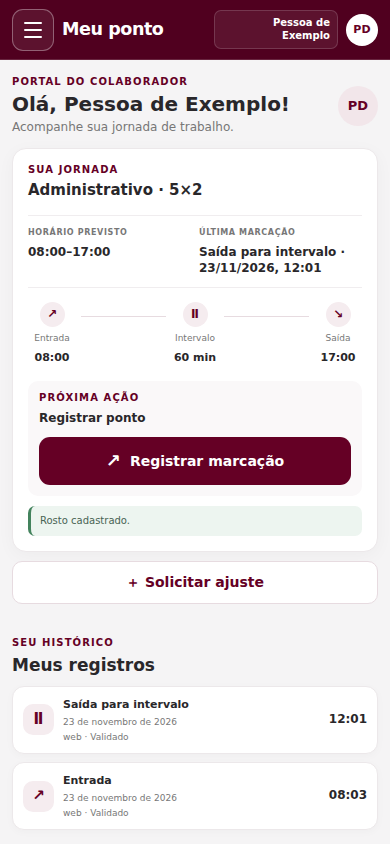
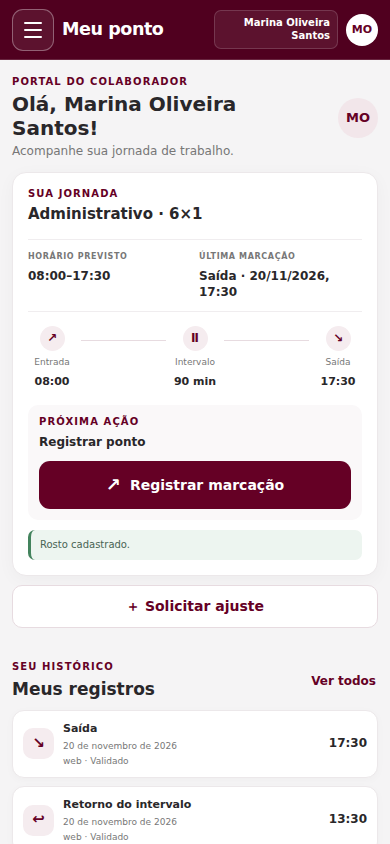
fix(certus): refine landing mockups and device proportions
Publish reviewed landing page updates with correct screen proportions and fictitious examples.

diff --git a/index.html b/index.html
@@ -9,15 +9,15 @@
 <meta property="og:type" content="website">
 <meta property="og:title" content="Certus by VagasIO — Gestão de jornada e ponto">
 <meta property="og:description" content="Conheça o Certus: gestão da jornada para equipes e colaboradores.">
-<meta property="og:image" content="https://certusbyvagasio.com.br/assets/gestao-desktop.png">
+<meta property="og:image" content="https://certusbyvagasio.com.br/assets/registros-desktop.png">
 <meta name="twitter:card" content="summary_large_image">
-<meta name="twitter:image" content="https://certusbyvagasio.com.br/assets/gestao-desktop.png">
+<meta name="twitter:image" content="https://certusbyvagasio.com.br/assets/registros-desktop.png">
 <link rel="icon" type="image/png" sizes="192x192" href="assets/certus-icon.png">
 <title>Certus by VagasIO — Gestão de jornada e ponto</title>
 <style>
-:root{--wine:#7b0636;--wine2:#a80d4c;--pink:#ea175b;--ink:#25000e;--muted:#c8aeb8;--paper:#f6f5f6;--text:#191316;--line:#eadfe4;--white:#fff;--max:1260px;--radius:22px;--shadow:0 24px 70px #16000b66}*{box-sizing:border-box}html{scroll-behavior:smooth}body{margin:0;font-family:Inter,ui-sans-serif,system-ui,-apple-system,BlinkMacSystemFont,"Segoe UI",sans-serif;color:var(--text);background:#fff}a{color:inherit;text-decoration:none}button,a{-webkit-tap-highlight-color:transparent}.wrap{width:min(var(--max),calc(100% - 64px));margin:auto}.dark-shell{color:#fff;background:radial-gradient(ellipse at 88% 12%,#860b3d 0,#43001b 25%,#21000d 66%),#26000e;position:relative;overflow:hidden}.dark-shell:before,.dark-shell:after{content:"";position:absolute;pointer-events:none;border:1px solid #ef477244;border-radius:50%;transform:rotate(-28deg)}.dark-shell:before{width:580px;height:1080px;right:-280px;top:-210px;border-width:110px}.dark-shell:after{width:420px;height:800px;right:-205px;top:-130px;border-color:#ff3d7933;border-width:3px}.site-header{height:78px;display:flex;align-items:center;justify-content:space-between;gap:28px;position:relative;z-index:3;border-bottom:1px solid #ffffff16}.brand{display:flex;align-items:center;flex:0 0 auto}.brand img{display:block;width:155px;height:auto}.main-nav{display:flex;align-items:center;gap:clamp(18px,2.5vw,36px);font-size:13px;color:#f6eaf0}.main-nav a{opacity:.9;transition:opacity .2s}.main-nav a:hover{opacity:1;color:#ff6b99}.header-actions{display:flex;align-items:center;gap:10px}.btn{min-height:42px;padding:0 17px;border:1px solid transparent;border-radius:999px;display:inline-flex;align-items:center;justify-content:center;gap:9px;font-size:13px;font-weight:750;white-space:nowrap;transition:transform .2s,box-shadow .2s,background .2s}.btn:hover{transform:translateY(-2px)}.btn-outline{border-color:#ffffff55;color:white;background:#ffffff05}.btn-primary{color:#fff;background:linear-gradient(105deg,#ee1a5d,#bb064c);box-shadow:0 9px 26px #d70b514d}.btn-primary:hover{box-shadow:0 12px 30px #eb125f88}.btn-light{background:#fff;color:#77072f}.hero{position:relative;z-index:1;min-height:520px;padding:48px 0 22px;display:grid;grid-template-columns:minmax(350px,.78fr) minmax(0,1.22fr);align-items:center;gap:28px}.hero-copy{position:relative;z-index:2;max-width:490px}.eyebrow{display:inline-flex;align-items:center;gap:8px;font-size:11px;letter-spacing:.13em;text-transform:uppercase;color:#ff80a7;font-weight:800}.eyebrow .pill{letter-spacing:.03em;text-transform:none;color:#fff;border:1px solid #ffffff35;border-radius:999px;padding:8px 12px;font-size:11px}.hero h1{font-size:clamp(38px,4.2vw,61px);letter-spacing:-.045em;line-height:1.02;margin:20px 0 15px;max-width:570px}.hero h1 em{font-style:normal;color:#ff2d6b}.hero-copy>p{font-size:16px;line-height:1.58;color:#e2ccd5;max-width:475px;margin:0 0 22px}.hero-actions{display:flex;gap:11px;flex-wrap:wrap}.hero-checks{margin-top:22px;display:flex;gap:15px;flex-wrap:wrap;color:#ead5de;font-size:11px}.hero-checks span{display:flex;align-items:center;gap:6px}.demo-caption{font-size:10px;color:#cdb4be;margin:12px 0 0;line-height:1.4}.tick{width:16px;height:16px;border-radius:50%;display:inline-grid;place-items:center;background:#c80e50;color:#fff;font-size:10px}.hero-visual{min-width:0;position:relative;min-height:405px;display:flex;align-items:center;justify-content:center;padding:10px 5px 32px}.visual-glow{position:absolute;width:76%;height:70%;background:#ed0f5b42;filter:blur(70px);border-radius:50%}.device-stage{position:relative;width:100%;max-width:730px;display:flex;align-items:center;justify-content:center;perspective:1200px}.desktop-frame{width:82%;position:relative;z-index:1;transform:rotateY(-5deg) rotateX(2deg);border:7px solid #343037;border-bottom-width:12px;border-radius:13px;background:#111;box-shadow:0 24px 55px #05000599,0 0 0 1px #ffffff55;overflow:hidden}.desktop-frame img{display:block;width:100%;height:auto;object-fit:contain;object-position:top;background:#f4f2f4}.desktop-stand{height:42px;width:24%;position:relative;margin-top:-1px;background:linear-gradient(90deg,#45424a,#b9b6bd,#504c55);clip-path:polygon(20% 0,80% 0,100% 100%,0 100%);filter:drop-shadow(0 8px 6px #0008)}.desktop-foot{height:12px;width:34%;margin:-1px auto 0;border-radius:0 0 9px 9px;background:linear-gradient(#d5d2d9,#67636c)}.phone-frame{position:absolute;z-index:2;width:17%;right:13%;bottom:14px;padding:6px;border:2px solid #78747e;border-radius:24px;background:#17151b;box-shadow:0 22px 48px #0009}.phone-frame img{display:block;width:100%;height:auto;object-fit:contain;object-position:top;border-radius:18px}.terminal-frame{width:18%;right:0%;bottom:52px;z-index:2}.image-caption{position:absolute;z-index:2;bottom:0;left:6%;font-size:10px;line-height:1.4;color:#fff9;text-shadow:0 1px 4px #000}.screen-slot{display:grid;place-items:center;text-align:center;color:#b9a6ae;background:linear-gradient(135deg,#25151c,#341623);font-size:13px;line-height:1.5;padding:24px}.desktop-frame .screen-slot{aspect-ratio:1.56}.phone-frame .screen-slot{aspect-ratio:9/19.5;border-radius:18px;padding:12px 7px;font-size:10px}.hero-strip{position:relative;z-index:2;margin:12px auto 32px;display:grid;grid-template-columns:repeat(5,1fr);border:1px solid #ffffff26;border-radius:19px;background:linear-gradient(100deg,#ffffff0c,#ffffff05);backdrop-filter:blur(10px);overflow:hidden}.strip-item{min-height:78px;display:flex;align-items:center;justify-content:center;gap:12px;padding:14px 12px;border-right:1px solid #ffffff22;text-align:left}.strip-item:last-child{border:0}.strip-icon{width:34px;height:34px;flex:none;color:#ff7aa2}.strip-item b{display:block;font-size:12px;line-height:1.25}.strip-item small{display:block;color:#d8c0ca;font-size:10px;margin-top:3px}.why{position:relative;z-index:2;padding:10px 0 48px;display:grid;grid-template-columns:1fr 1fr;gap:54px;align-items:center}.video-card{min-height:270px;border:1px solid #ffffff35;border-radius:22px;background:linear-gradient(135deg,#4b1d30,#170711);overflow:hidden;position:relative;box-shadow:var(--shadow)}.video-card img{width:100%;height:100%;min-height:270px;object-fit:cover;display:block}.capture-label{position:absolute;left:0;right:0;bottom:0;padding:48px 20px 17px;color:#fff;font-size:14px;font-weight:800;background:linear-gradient(transparent,#160711e8)}.capture-label small{display:block;color:#f5dce5;font-size:10px;font-weight:500;margin-top:5px}.video-placeholder{position:absolute;inset:0;display:grid;place-content:center;text-align:center;background:linear-gradient(135deg,#45182b,#1e0b14);color:#fff}.play{width:58px;height:58px;border-radius:50%;border:1px solid #ffffff99;background:#ffffff22;margin:0 auto 13px;display:grid;place-items:center;font-size:21px}.video-placeholder b{font-size:18px}.video-placeholder small{margin-top:6px;color:#d7bfc9}.why-copy .eyebrow{color:#f46991}.why-copy h2{font-size:clamp(25px,3vw,37px);line-height:1.12;letter-spacing:-.03em;margin:12px 0}.why-copy h2 em{color:#ff3e78;font-style:normal}.why-copy p{font-size:14px;line-height:1.6;color:#dbc8d0}.check-list{padding:0;margin:18px 0 0;list-style:none;display:grid;gap:10px}.check-list li{display:flex;align-items:flex-start;gap:9px;color:#f3e5eb;font-size:13px;line-height:1.45}.check-list .tick{margin-top:1px;flex:none}.trust-strip{position:relative;z-index:2;margin:0 auto 28px;border:1px solid #ffffff28;border-radius:18px;display:grid;grid-template-columns:repeat(3,1fr);background:#ffffff0a}.trust-item{padding:17px 18px;display:flex;justify-content:center;align-items:center;gap:12px;border-right:1px solid #ffffff25;text-align:left}.trust-item:last-child{border:0}.trust-icon{width:30px;height:30px;color:#ff6793}.trust-item b{display:block;font-size:13px}.trust-item small{display:block;color:#d1b8c2;font-size:10px;margin-top:3px}.light-section{background:var(--paper);padding:64px 0}.section-grid{display:grid;grid-template-columns:.72fr 1.28fr;align-items:center;gap:55px}.section-copy .eyebrow{color:#92083d}.section-copy h2{font-size:clamp(30px,3.5vw,44px);line-height:1.07;letter-spacing:-.04em;margin:13px 0}.section-copy p{font-size:15px;line-height:1.6;color:#655d62;max-width:390px}.feature-grid{display:grid;grid-template-columns:repeat(3,1fr);gap:14px}.feature-card{min-height:145px;padding:21px 17px;background:white;border:1px solid #eee7eb;border-radius:17px;box-shadow:0 8px 24px #39112508}.feature-icon{width:36px;height:36px;display:grid;place-items:center;color:#94083f;background:#fff1f5;border-radius:12px;margin-bottom:14px}.feature-icon svg{width:21px;height:21px}.feature-card h3{font-size:14px;line-height:1.25;margin:0 0 6px}.feature-card p{font-size:11px;line-height:1.45;color:#777078;margin:0}.benefit-section{padding:72px 0;background:#fff}.section-heading{text-align:center;max-width:720px;margin:0 auto 34px}.section-heading .eyebrow{color:#a20947}.section-heading h2{font-size:clamp(29px,3.2vw,42px);letter-spacing:-.04em;margin:12px 0}.section-heading p{margin:0;color:#6d656a;line-height:1.6}.benefit-grid{display:grid;grid-template-columns:repeat(3,1fr);gap:16px}.benefit{border:1px solid #eee7eb;border-radius:17px;padding:24px;background:#fff}.benefit-num{font-size:11px;color:#ab0d4d;font-weight:800;letter-spacing:.12em}.benefit h3{font-size:16px;margin:12px 0 8px}.benefit p{font-size:13px;line-height:1.55;color:#6e656a;margin:0}.cta-section{color:#fff;padding:40px 0;background:radial-gradient(ellipse at 88% 30%,#9b0d47,#3a0019 64%,#24000f);position:relative;overflow:hidden}.cta-section:after{content:"";position:absolute;width:550px;height:550px;border:75px solid #ffffff0a;border-radius:50%;right:-260px;top:-200px}.cta-inner{position:relative;z-index:1;display:grid;grid-template-columns:1fr auto;align-items:center;gap:28px}.cta-copy .eyebrow{color:#ff9aba}.cta-copy h2{font-size:clamp(24px,3vw,36px);line-height:1.1;margin:10px 0}.cta-copy p{font-size:13px;color:#e2cbd4;line-height:1.55;max-width:560px;margin:0}.cta-perks{display:flex;gap:20px;margin-top:17px;color:#f2dfe7;font-size:11px}.cta-perks span{display:flex;gap:7px;align-items:center}.cta-actions{display:flex;gap:10px;flex-wrap:wrap;justify-content:flex-end}.faq-section{padding:65px 0;background:#faf9fa}.faq-grid{max-width:880px;margin:auto;display:grid;grid-template-columns:1fr 1fr;gap:10px}.faq-grid details{background:#fff;border:1px solid #eee7eb;border-radius:13px;padding:15px 17px}.faq-grid summary{cursor:pointer;font-size:13px;font-weight:750}.faq-grid details p{font-size:12px;line-height:1.55;color:#6c6469;margin:10px 0 0}.site-footer{background:#20000d;color:#d8c2cb;padding:28px 0}.footer-inner{display:flex;align-items:center;justify-content:space-between;gap:18px;font-size:11px}.footer-inner img{width:132px;height:auto}.footer-links{display:flex;gap:15px;flex-wrap:wrap}.footer-inner small{color:#bd9eaa}.sr-only{position:absolute;width:1px;height:1px;padding:0;margin:-1px;overflow:hidden;clip:rect(0,0,0,0);white-space:nowrap;border:0}
+:root{--wine:#7b0636;--wine2:#a80d4c;--pink:#ea175b;--ink:#25000e;--muted:#c8aeb8;--paper:#f6f5f6;--text:#191316;--line:#eadfe4;--white:#fff;--max:1260px;--radius:22px;--shadow:0 24px 70px #16000b66}*{box-sizing:border-box}html{scroll-behavior:smooth}body{margin:0;font-family:Inter,ui-sans-serif,system-ui,-apple-system,BlinkMacSystemFont,"Segoe UI",sans-serif;color:var(--text);background:#fff}a{color:inherit;text-decoration:none}button,a{-webkit-tap-highlight-color:transparent}.wrap{width:min(var(--max),calc(100% - 64px));margin:auto}.dark-shell{color:#fff;background:radial-gradient(ellipse at 88% 12%,#860b3d 0,#43001b 25%,#21000d 66%),#26000e;position:relative;overflow:hidden}.dark-shell:before,.dark-shell:after{content:"";position:absolute;pointer-events:none;border:1px solid #ef477244;border-radius:50%;transform:rotate(-28deg)}.dark-shell:before{width:580px;height:1080px;right:-280px;top:-210px;border-width:110px}.dark-shell:after{width:420px;height:800px;right:-205px;top:-130px;border-color:#ff3d7933;border-width:3px}.site-header{height:78px;display:flex;align-items:center;justify-content:space-between;gap:28px;position:relative;z-index:3;border-bottom:1px solid #ffffff16}.brand{display:flex;align-items:center;flex:0 0 auto}.brand img{display:block;width:155px;height:auto}.main-nav{display:flex;align-items:center;gap:clamp(18px,2.5vw,36px);font-size:13px;color:#f6eaf0}.main-nav a{opacity:.9;transition:opacity .2s}.main-nav a:hover{opacity:1;color:#ff6b99}.header-actions{display:flex;align-items:center;gap:10px}.btn{min-height:42px;padding:0 17px;border:1px solid transparent;border-radius:999px;display:inline-flex;align-items:center;justify-content:center;gap:9px;font-size:13px;font-weight:750;white-space:nowrap;transition:transform .2s,box-shadow .2s,background .2s}.btn:hover{transform:translateY(-2px)}.btn-outline{border-color:#ffffff55;color:white;background:#ffffff05}.btn-primary{color:#fff;background:linear-gradient(105deg,#ee1a5d,#bb064c);box-shadow:0 9px 26px #d70b514d}.btn-primary:hover{box-shadow:0 12px 30px #eb125f88}.btn-light{background:#fff;color:#77072f}.hero{position:relative;z-index:1;min-height:520px;padding:48px 0 22px;display:grid;grid-template-columns:minmax(350px,.78fr) minmax(0,1.22fr);align-items:center;gap:28px}.hero-copy{position:relative;z-index:2;max-width:490px}.eyebrow{display:inline-flex;align-items:center;gap:8px;font-size:11px;letter-spacing:.13em;text-transform:uppercase;color:#ff80a7;font-weight:800}.eyebrow .pill{letter-spacing:.03em;text-transform:none;color:#fff;border:1px solid #ffffff35;border-radius:999px;padding:8px 12px;font-size:11px}.hero h1{font-size:clamp(38px,4.2vw,61px);letter-spacing:-.045em;line-height:1.02;margin:20px 0 15px;max-width:570px}.hero h1 em{font-style:normal;color:#ff2d6b}.hero-copy>p{font-size:16px;line-height:1.58;color:#e2ccd5;max-width:475px;margin:0 0 22px}.hero-actions{display:flex;gap:11px;flex-wrap:wrap}.hero-checks{margin-top:22px;display:flex;gap:15px;flex-wrap:wrap;color:#ead5de;font-size:11px}.hero-checks span{display:flex;align-items:center;gap:6px}.demo-caption{font-size:10px;color:#cdb4be;margin:12px 0 0;line-height:1.4}.tick{width:16px;height:16px;border-radius:50%;display:inline-grid;place-items:center;background:#c80e50;color:#fff;font-size:10px}.hero-visual{min-width:0;position:relative;min-height:405px;display:flex;align-items:center;justify-content:center;padding:10px 5px 32px}.visual-glow{position:absolute;width:76%;height:70%;background:#ed0f5b42;filter:blur(70px);border-radius:50%}.device-stage{position:relative;width:100%;max-width:730px;display:flex;align-items:center;justify-content:center;perspective:1200px}.desktop-frame{width:76%;position:relative;z-index:1;transform:none;border:6px solid #343037;border-bottom-width:11px;border-radius:12px;background:#111;box-shadow:0 24px 55px #05000599,0 0 0 1px #ffffff55;overflow:hidden}.desktop-frame img{display:block;width:100%;height:auto;object-fit:contain;object-position:top;background:#f4f2f4}.desktop-stand{height:42px;width:24%;position:relative;margin-top:-1px;background:linear-gradient(90deg,#45424a,#b9b6bd,#504c55);clip-path:polygon(20% 0,80% 0,100% 100%,0 100%);filter:drop-shadow(0 8px 6px #0008)}.desktop-foot{height:12px;width:34%;margin:-1px auto 0;border-radius:0 0 9px 9px;background:linear-gradient(#d5d2d9,#67636c)}.device-bezel{position:absolute;overflow:hidden;background:#17151b;box-shadow:0 22px 48px #0009}.phone-frame{z-index:3;width:15%;right:0;bottom:19px;padding:5px;border:2px solid #85818a;border-radius:23px}.phone-frame img{display:block;width:100%;height:auto;object-fit:contain;object-position:top;border-radius:17px}.tablet-frame{z-index:2;width:25%;right:15%;bottom:14px;padding:7px;border:2px solid #8f8c94;border-radius:18px}.tablet-frame img{display:block;width:100%;height:auto;aspect-ratio:4/3;object-fit:contain;object-position:top;border-radius:10px;background:#f4f2f4}.image-caption{position:absolute;z-index:2;bottom:0;left:6%;font-size:10px;line-height:1.4;color:#fff9;text-shadow:0 1px 4px #000}.screen-slot{display:grid;place-items:center;text-align:center;color:#b9a6ae;background:linear-gradient(135deg,#25151c,#341623);font-size:13px;line-height:1.5;padding:24px}.desktop-frame .screen-slot{aspect-ratio:1.56}.phone-frame .screen-slot{aspect-ratio:9/19.5;border-radius:18px;padding:12px 7px;font-size:10px}.hero-strip{position:relative;z-index:2;margin:12px auto 32px;display:grid;grid-template-columns:repeat(5,1fr);border:1px solid #ffffff26;border-radius:19px;background:linear-gradient(100deg,#ffffff0c,#ffffff05);backdrop-filter:blur(10px);overflow:hidden}.strip-item{min-height:78px;display:flex;align-items:center;justify-content:center;gap:12px;padding:14px 12px;border-right:1px solid #ffffff22;text-align:left}.strip-item:last-child{border:0}.strip-icon{width:34px;height:34px;flex:none;color:#ff7aa2}.strip-item b{display:block;font-size:12px;line-height:1.25}.strip-item small{display:block;color:#d8c0ca;font-size:10px;margin-top:3px}.why{position:relative;z-index:2;padding:10px 0 48px;display:grid;grid-template-columns:1fr 1fr;gap:54px;align-items:center}.video-card{aspect-ratio:1.5;min-height:0;border:1px solid #ffffff35;border-radius:22px;background:#f4f2f4;overflow:hidden;position:relative;box-shadow:var(--shadow)}.video-card img{width:100%;height:100%;min-height:0;object-fit:contain;display:block}.capture-label{position:absolute;left:0;right:0;bottom:0;padding:48px 20px 17px;color:#fff;font-size:14px;font-weight:800;background:linear-gradient(transparent,#160711e8)}.capture-label small{display:block;color:#f5dce5;font-size:10px;font-weight:500;margin-top:5px}.video-placeholder{position:absolute;inset:0;display:grid;place-content:center;text-align:center;background:linear-gradient(135deg,#45182b,#1e0b14);color:#fff}.play{width:58px;height:58px;border-radius:50%;border:1px solid #ffffff99;background:#ffffff22;margin:0 auto 13px;display:grid;place-items:center;font-size:21px}.video-placeholder b{font-size:18px}.video-placeholder small{margin-top:6px;color:#d7bfc9}.why-copy .eyebrow{color:#f46991}.why-copy h2{font-size:clamp(25px,3vw,37px);line-height:1.12;letter-spacing:-.03em;margin:12px 0}.why-copy h2 em{color:#ff3e78;font-style:normal}.why-copy p{font-size:14px;line-height:1.6;color:#dbc8d0}.check-list{padding:0;margin:18px 0 0;list-style:none;display:grid;gap:10px}.check-list li{display:flex;align-items:flex-start;gap:9px;color:#f3e5eb;font-size:13px;line-height:1.45}.check-list .tick{margin-top:1px;flex:none}.trust-strip{position:relative;z-index:2;margin:0 auto 28px;border:1px solid #ffffff28;border-radius:18px;display:grid;grid-template-columns:repeat(3,1fr);background:#ffffff0a}.trust-item{padding:17px 18px;display:flex;justify-content:center;align-items:center;gap:12px;border-right:1px solid #ffffff25;text-align:left}.trust-item:last-child{border:0}.trust-icon{width:30px;height:30px;color:#ff6793}.trust-item b{display:block;font-size:13px}.trust-item small{display:block;color:#d1b8c2;font-size:10px;margin-top:3px}.light-section{background:var(--paper);padding:64px 0}.section-grid{display:grid;grid-template-columns:.72fr 1.28fr;align-items:center;gap:55px}.section-copy .eyebrow{color:#92083d}.section-copy h2{font-size:clamp(30px,3.5vw,44px);line-height:1.07;letter-spacing:-.04em;margin:13px 0}.section-copy p{font-size:15px;line-height:1.6;color:#655d62;max-width:390px}.feature-grid{display:grid;grid-template-columns:repeat(3,1fr);gap:14px}.feature-card{min-height:145px;padding:21px 17px;background:white;border:1px solid #eee7eb;border-radius:17px;box-shadow:0 8px 24px #39112508}.feature-icon{width:36px;height:36px;display:grid;place-items:center;color:#94083f;background:#fff1f5;border-radius:12px;margin-bottom:14px}.feature-icon svg{width:21px;height:21px}.feature-card h3{font-size:14px;line-height:1.25;margin:0 0 6px}.feature-card p{font-size:11px;line-height:1.45;color:#777078;margin:0}.benefit-section{padding:72px 0;background:#fff}.section-heading{text-align:center;max-width:720px;margin:0 auto 34px}.section-heading .eyebrow{color:#a20947}.section-heading h2{font-size:clamp(29px,3.2vw,42px);letter-spacing:-.04em;margin:12px 0}.section-heading p{margin:0;color:#6d656a;line-height:1.6}.benefit-grid{display:grid;grid-template-columns:repeat(3,1fr);gap:16px}.benefit{border:1px solid #eee7eb;border-radius:17px;padding:24px;background:#fff}.benefit-num{font-size:11px;color:#ab0d4d;font-weight:800;letter-spacing:.12em}.benefit h3{font-size:16px;margin:12px 0 8px}.benefit p{font-size:13px;line-height:1.55;color:#6e656a;margin:0}.cta-section{color:#fff;padding:40px 0;background:radial-gradient(ellipse at 88% 30%,#9b0d47,#3a0019 64%,#24000f);position:relative;overflow:hidden}.cta-section:after{content:"";position:absolute;width:550px;height:550px;border:75px solid #ffffff0a;border-radius:50%;right:-260px;top:-200px}.cta-inner{position:relative;z-index:1;display:grid;grid-template-columns:1fr auto;align-items:center;gap:28px}.cta-copy .eyebrow{color:#ff9aba}.cta-copy h2{font-size:clamp(24px,3vw,36px);line-height:1.1;margin:10px 0}.cta-copy p{font-size:13px;color:#e2cbd4;line-height:1.55;max-width:560px;margin:0}.cta-perks{display:flex;gap:20px;margin-top:17px;color:#f2dfe7;font-size:11px}.cta-perks span{display:flex;gap:7px;align-items:center}.cta-actions{display:flex;gap:10px;flex-wrap:wrap;justify-content:flex-end}.faq-section{padding:65px 0;background:#faf9fa}.faq-grid{max-width:880px;margin:auto;display:grid;grid-template-columns:1fr 1fr;gap:10px}.faq-grid details{background:#fff;border:1px solid #eee7eb;border-radius:13px;padding:15px 17px}.faq-grid summary{cursor:pointer;font-size:13px;font-weight:750}.faq-grid details p{font-size:12px;line-height:1.55;color:#6c6469;margin:10px 0 0}.site-footer{background:#20000d;color:#d8c2cb;padding:28px 0}.footer-inner{display:flex;align-items:center;justify-content:space-between;gap:18px;font-size:11px}.footer-inner img{width:132px;height:auto}.footer-links{display:flex;gap:15px;flex-wrap:wrap}.footer-inner small{color:#bd9eaa}.sr-only{position:absolute;width:1px;height:1px;padding:0;margin:-1px;overflow:hidden;clip:rect(0,0,0,0);white-space:nowrap;border:0}
 @media(max-width:1000px){.main-nav{gap:14px}.main-nav a:nth-child(2),.main-nav a:nth-child(4){display:none}.hero{grid-template-columns:.88fr 1.12fr}.hero-visual{min-height:340px}.strip-item{gap:8px;padding:12px 8px}.strip-item b{font-size:11px}.section-grid{gap:32px}.feature-card{padding:17px 13px}}
-@media(max-width:760px){.wrap{width:min(100% - 34px,var(--max))}.site-header{height:64px;gap:10px}.brand img{width:130px}.main-nav{display:none}.header-actions{gap:6px}.header-actions .btn{min-height:38px;padding:0 12px;font-size:11px}.header-actions .btn-outline{display:none}.hero{padding:37px 0 5px;grid-template-columns:1fr;gap:8px;min-height:auto}.hero-copy{max-width:560px}.hero h1{font-size:clamp(37px,10vw,52px);margin:16px 0 12px}.hero-copy>p{font-size:14px}.hero-visual{min-height:260px;padding:0 0 20px;margin-top:2px}.device-stage{max-width:520px}.desktop-frame{width:84%;border-width:4px;border-bottom-width:8px;border-radius:8px}.desktop-stand{height:26px}.desktop-foot{height:8px}.phone-frame{width:19%;right:18%;bottom:8px;padding:4px;border-radius:15px}.phone-frame img{border-radius:12px}.terminal-frame{width:20%;right:0;bottom:34px}.image-caption{font-size:9px;left:1%;bottom:-2px}.hero-strip{grid-template-columns:repeat(2,1fr);margin:18px auto 24px;border-radius:15px}.strip-item{min-height:63px;justify-content:flex-start;padding:11px 12px;border-bottom:1px solid #ffffff20}.strip-item:nth-child(2n){border-right:0}.strip-item:last-child{grid-column:1/-1;border-bottom:0;justify-content:center}.strip-icon{width:28px;height:28px}.strip-item b{font-size:11px}.strip-item small{font-size:9px}.why{padding:0 0 26px;grid-template-columns:1fr;gap:19px}.video-card,.video-card img{min-height:205px}.why-copy h2{font-size:29px}.why-copy p{font-size:13px}.check-list{gap:8px}.check-list li{font-size:12px}.trust-strip{margin-bottom:24px;grid-template-columns:1fr}.trust-item{justify-content:flex-start;padding:13px 18px;border-right:0;border-bottom:1px solid #ffffff22}.trust-item:last-child{border-bottom:0}.light-section{padding:44px 0}.section-grid{grid-template-columns:1fr;gap:21px}.section-copy h2{font-size:34px}.section-copy p{font-size:13px}.feature-grid{grid-template-columns:repeat(2,1fr);gap:9px}.feature-card{min-height:132px;padding:15px 12px;border-radius:14px}.feature-card h3{font-size:12px}.feature-card p{font-size:10px}.benefit-section{padding:48px 0}.section-heading{margin-bottom:22px;text-align:left}.section-heading h2{font-size:32px}.benefit-grid{grid-template-columns:1fr;gap:9px}.benefit{padding:17px}.benefit h3{margin:8px 0 5px}.cta-section{padding:31px 0}.cta-inner{grid-template-columns:1fr;gap:18px}.cta-actions{justify-content:flex-start}.cta-perks{gap:10px 15px;flex-wrap:wrap;font-size:10px}.faq-section{padding:48px 0}.faq-grid{grid-template-columns:1fr}.footer-inner{align-items:flex-start;flex-direction:column}.footer-links{gap:10px 16px}}
+@media(max-width:760px){.wrap{width:min(100% - 34px,var(--max))}.site-header{height:64px;gap:10px}.brand img{width:130px}.main-nav{display:none}.header-actions{gap:6px}.header-actions .btn{min-height:38px;padding:0 12px;font-size:11px}.header-actions .btn-outline{display:none}.hero{padding:37px 0 5px;grid-template-columns:1fr;gap:8px;min-height:auto}.hero-copy{max-width:560px}.hero h1{font-size:clamp(37px,10vw,52px);margin:16px 0 12px}.hero-copy>p{font-size:14px}.hero-visual{min-height:260px;padding:0 0 20px;margin-top:2px}.device-stage{max-width:520px}.desktop-frame{width:76%;border-width:4px;border-bottom-width:8px;border-radius:8px}.desktop-stand{height:26px}.desktop-foot{height:8px}.phone-frame{width:16%;right:0;bottom:8px;padding:4px;border-radius:15px}.phone-frame img{border-radius:11px}.tablet-frame{width:25%;right:15%;bottom:8px;padding:5px;border-radius:13px}.tablet-frame img{border-radius:8px}.image-caption{display:none}.hero-strip{grid-template-columns:repeat(2,1fr);margin:18px auto 24px;border-radius:15px}.strip-item{min-height:63px;justify-content:flex-start;padding:11px 12px;border-bottom:1px solid #ffffff20}.strip-item:nth-child(2n){border-right:0}.strip-item:last-child{grid-column:1/-1;border-bottom:0;justify-content:center}.strip-icon{width:28px;height:28px}.strip-item b{font-size:11px}.strip-item small{font-size:9px}.why{padding:0 0 26px;grid-template-columns:1fr;gap:19px}.video-card,.video-card img{min-height:205px}.why-copy h2{font-size:29px}.why-copy p{font-size:13px}.check-list{gap:8px}.check-list li{font-size:12px}.trust-strip{margin-bottom:24px;grid-template-columns:1fr}.trust-item{justify-content:flex-start;padding:13px 18px;border-right:0;border-bottom:1px solid #ffffff22}.trust-item:last-child{border-bottom:0}.light-section{padding:44px 0}.section-grid{grid-template-columns:1fr;gap:21px}.section-copy h2{font-size:34px}.section-copy p{font-size:13px}.feature-grid{grid-template-columns:repeat(2,1fr);gap:9px}.feature-card{min-height:132px;padding:15px 12px;border-radius:14px}.feature-card h3{font-size:12px}.feature-card p{font-size:10px}.benefit-section{padding:48px 0}.section-heading{margin-bottom:22px;text-align:left}.section-heading h2{font-size:32px}.benefit-grid{grid-template-columns:1fr;gap:9px}.benefit{padding:17px}.benefit h3{margin:8px 0 5px}.cta-section{padding:31px 0}.cta-inner{grid-template-columns:1fr;gap:18px}.cta-actions{justify-content:flex-start}.cta-perks{gap:10px 15px;flex-wrap:wrap;font-size:10px}.faq-section{padding:48px 0}.faq-grid{grid-template-columns:1fr}.footer-inner{align-items:flex-start;flex-direction:column}.footer-links{gap:10px 16px}}
 @media(prefers-reduced-motion:reduce){html{scroll-behavior:auto}*,*:before,*:after{transition:none!important}}
 </style>
 </head>
@@ -32,7 +32,7 @@
 <section class="hero wrap" aria-labelledby="hero-title">
   <div class="hero-copy"><span class="eyebrow"><span class="pill">◷ &nbsp;Gestão de jornada</span></span><h1 id="hero-title">Controle de jornada com tecnologia, segurança e <em>clareza.</em></h1><p>Registre, acompanhe e gerencie o ponto da sua equipe com uma experiência simples para gestores e colaboradores, no computador ou no celular.</p><div class="hero-actions"><a class="btn btn-primary" href="#contato">Conheça o Certus <span aria-hidden="true">→</span></a><a class="btn btn-outline" href="#demonstracao">⌕ &nbsp;Ver demonstração</a></div><div class="hero-checks"><span><i class="tick">✓</i> Gestão centralizada</span><span><i class="tick">✓</i> Acesso pelo celular</span><span><i class="tick">✓</i> Relatórios da jornada</span></div><p class="demo-caption">Capturas das telas reais do Certus, geradas com dados demonstrativos fictícios.</p></div>
   <div class="hero-visual" aria-label="Capturas de tela do Certus">
-    <div class="visual-glow"></div><div class="device-stage"><div><div class="desktop-frame"><img src="assets/gestao-desktop.png" alt="Captura de tela do painel de gestão real do Certus, renderizado com dados demonstrativos fictícios"></div><div class="desktop-stand"></div><div class="desktop-foot"></div></div><div class="phone-frame"><img src="assets/colaborador-mobile.png" alt="Captura real do portal do colaborador no celular, com dados demonstrativos fictícios"></div><div class="phone-frame terminal-frame"><img src="assets/terminal-mobile.png" alt="Captura real do terminal compartilhado Certus, com cadastro demonstrativo fictício"></div></div>
+    <div class="visual-glow"></div><div class="device-stage"><div><div class="desktop-frame"><img src="assets/registros-desktop.png" alt="Captura do espelho mensal individual de Registros de ponto no Certus, com colaboradora e marcações fictícias"></div><div class="desktop-stand"></div><div class="desktop-foot"></div></div><div class="phone-frame device-bezel"><img src="assets/colaborador-mobile.png" alt="Captura do portal do colaborador em celular, tela real do Certus com nome e dados fictícios"></div><div class="tablet-frame device-bezel"><img src="assets/terminal-tablet.png" alt="Captura do terminal compartilhado Certus em tablet, tela real com empresa e configurações fictícias"></div></div>
   </div>
 </section>
 <div class="hero-strip wrap" aria-label="Recursos em destaque">
@@ -42,7 +42,7 @@
   <div class="strip-item"><svg class="strip-icon" viewBox="0 0 32 32" fill="none" stroke="currentColor" stroke-width="1.7"><path d="M5 27h23M8 24V15m7 9V8m7 16v-6m7 6V4"/><path d="m6 12 8-6 7 5 8-7"/></svg><span><b>Relatórios</b><small>Visão da rotina</small></span></div>
   <div class="strip-item"><svg class="strip-icon" viewBox="0 0 32 32" fill="none" stroke="currentColor" stroke-width="1.7"><path d="m16 3 12 5v8c0 6-5 10-12 13C9 26 4 22 4 16V8l12-5Z"/><path d="m10 16 4 4 8-9"/></svg><span><b>Trilha de gestão</b><small>Registro e conferência</small></span></div>
 </div>
-<section class="why wrap" id="demonstracao"><div class="video-card"><img src="assets/registros-desktop.png" alt="Captura real da tela de registros de ponto do Certus com dados inteiramente fictícios"><div class="capture-label">Registros de ponto no Certus<small>Tela real do sistema · captura com dados demonstrativos fictícios</small></div></div><div class="why-copy"><span class="eyebrow">POR QUE CONHECER O CERTUS?</span><h2>Mais que marcar ponto:<br><em>uma gestão conectada à equipe.</em></h2><p>Acompanhe registros, cadastros e jornadas pelo portal de gestão, enquanto cada colaborador consulta sua própria rotina.</p><ul class="check-list"><li><i class="tick">✓</i> Consulte registros e jornadas por colaborador e filial.</li><li><i class="tick">✓</i> Acompanhe solicitações de ajuste e mantenha o histórico.</li><li><i class="tick">✓</i> Organize escalas, equipes e terminais em um só sistema.</li><li><i class="tick">✓</i> Consulte relatórios e informações da jornada.</li></ul></div></section>
+<section class="why wrap" id="demonstracao"><div class="video-card"><img src="assets/gestao-desktop.png" alt="Captura do painel de gestão real do Certus com empresa e indicadores fictícios"><div class="capture-label">Painel de gestão do Certus<small>Tela real do sistema · captura com dados demonstrativos fictícios</small></div></div><div class="why-copy"><span class="eyebrow">POR QUE CONHECER O CERTUS?</span><h2>Mais que marcar ponto:<br><em>uma gestão conectada à equipe.</em></h2><p>Acompanhe registros, cadastros e jornadas pelo portal de gestão, enquanto cada colaborador consulta sua própria rotina.</p><ul class="check-list"><li><i class="tick">✓</i> Consulte registros e jornadas por colaborador e filial.</li><li><i class="tick">✓</i> Acompanhe solicitações de ajuste e mantenha o histórico.</li><li><i class="tick">✓</i> Organize escalas, equipes e terminais em um só sistema.</li><li><i class="tick">✓</i> Consulte relatórios e informações da jornada.</li></ul></div></section>
 <div class="trust-strip wrap"><div class="trust-item"><svg class="trust-icon" viewBox="0 0 32 32" fill="none" stroke="currentColor" stroke-width="1.8"><circle cx="16" cy="10" r="5"/><path d="M6 28c0-7 4-11 10-11s10 4 10 11M4 11V5h6m18 6V5h-6"/></svg><span><b>Equipes organizadas</b><small>Cadastros e acessos</small></span></div><div class="trust-item"><svg class="trust-icon" viewBox="0 0 32 32" fill="none" stroke="currentColor" stroke-width="1.8"><circle cx="16" cy="16" r="12"/><path d="M16 8v8l6 4"/></svg><span><b>Rotina acompanhável</b><small>Registros e solicitações</small></span></div><div class="trust-item"><svg class="trust-icon" viewBox="0 0 32 32" fill="none" stroke="currentColor" stroke-width="1.8"><path d="M5 27V14m7 13V6m7 21V17m7 10V3"/><path d="M3 29h26"/></svg><span><b>Informação reunida</b><small>Visão de jornada e gestão</small></span></div></div>
 </div>
 <section class="light-section" id="solucoes"><div class="wrap section-grid"><div class="section-copy"><span class="eyebrow">SOLUÇÃO PARA A JORNADA</span><h2>Tudo para acompanhar a rotina de ponto em um só lugar.</h2><p>Recursos para a equipe de gestão e para o colaborador, em uma experiência clara e organizada.</p></div><div class="feature-grid" id="recursos">
